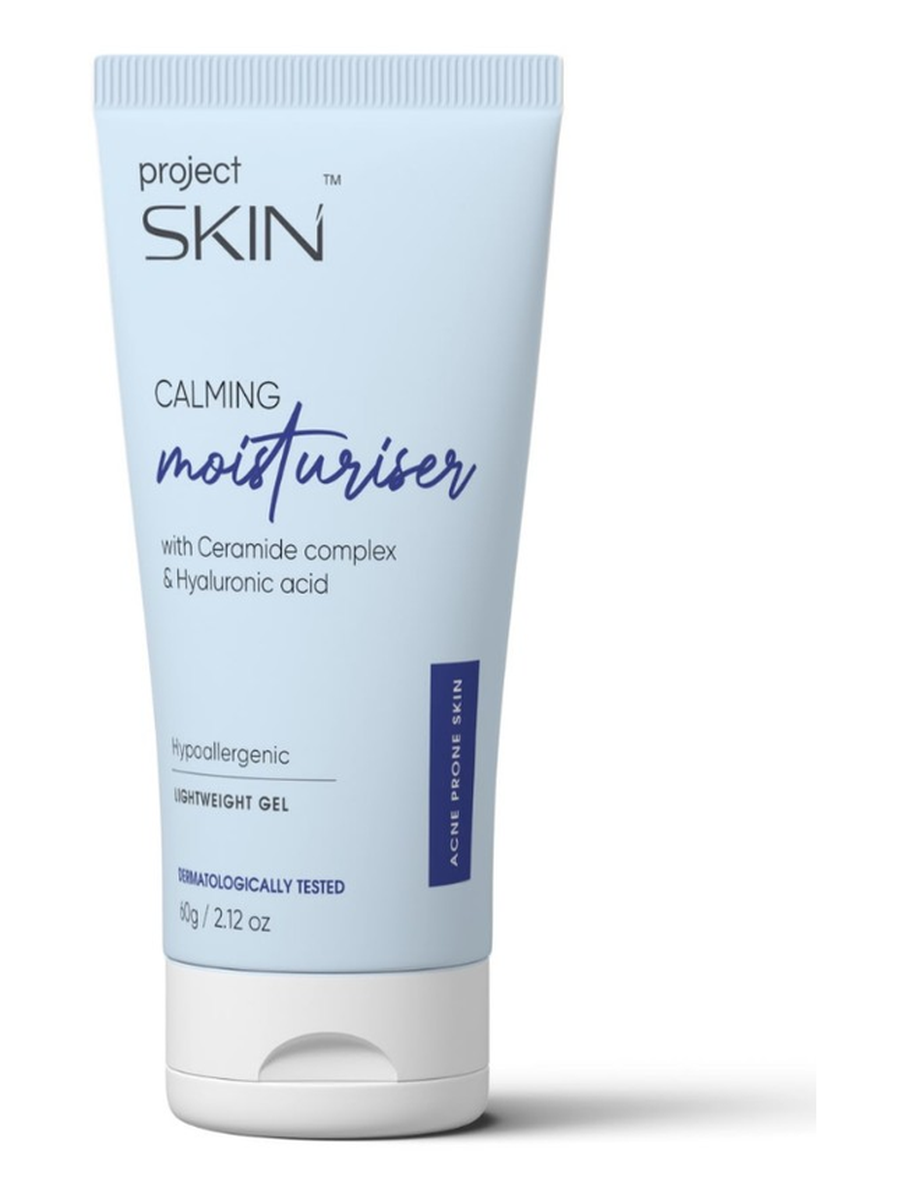
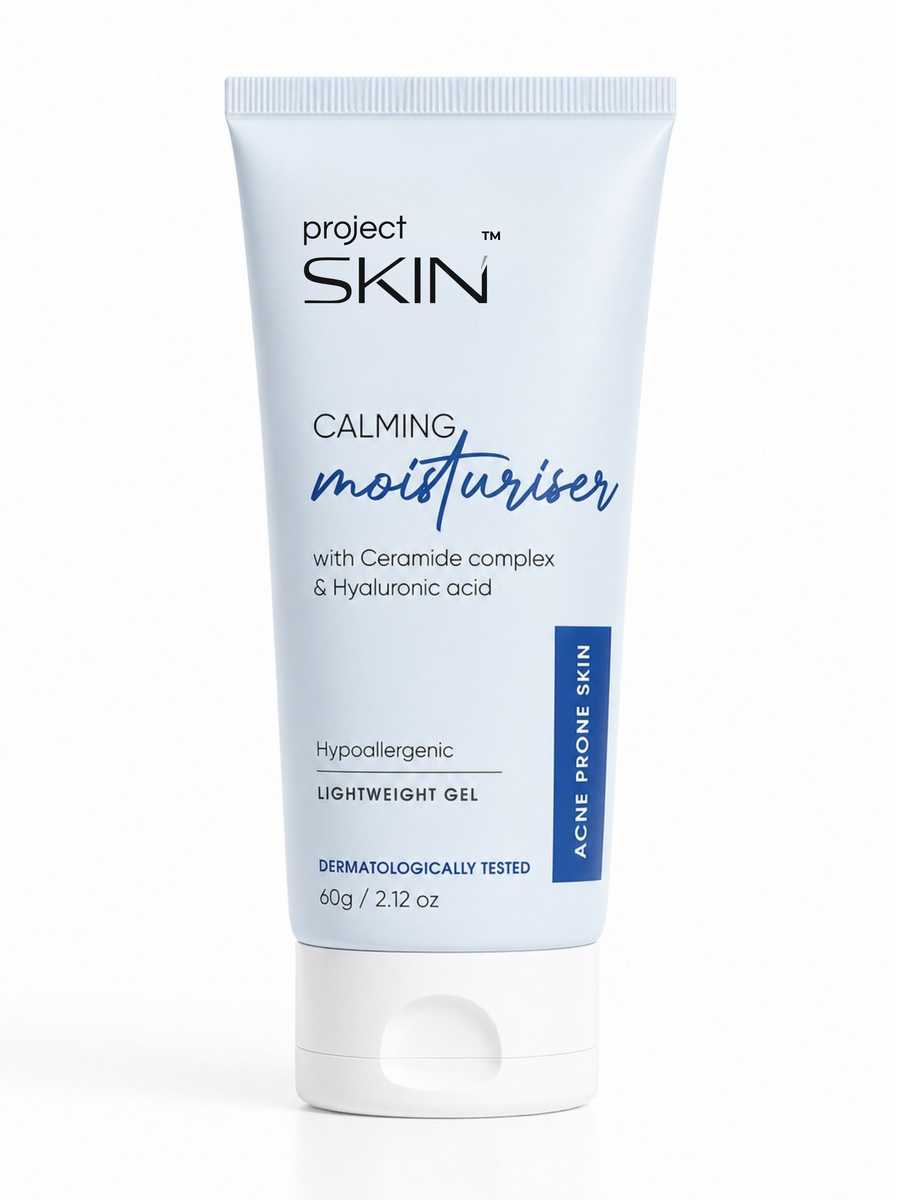
fix: center Calming Moisturiser and Protecting Sunscreen packshot images and remove legacy CSS zoom distortion

diff --git a/assets/purity-home.css b/assets/purity-home.css
@@ -796,10 +796,9 @@
   object-fit: cover;
   object-position: center;
   padding: 0;
-  background: #f6f4ef;
+  background: #ffffff;
   opacity: 0;
-  /* Crop baked-in colored frames from packshots */
-  transform: scale(1.24);
+  transform: none;
   transform-origin: center center;
   transition: opacity 280ms ease;
   pointer-events: none;
@@ -863,8 +862,8 @@
   object-fit: cover;
   object-position: center;
   padding: 0;
-  background: #f6f4ef;
-  transform: scale(1.24);
+  background: #ffffff;
+  transform: none;
   transform-origin: center center;
 }
 .ps-product__hover-image,
